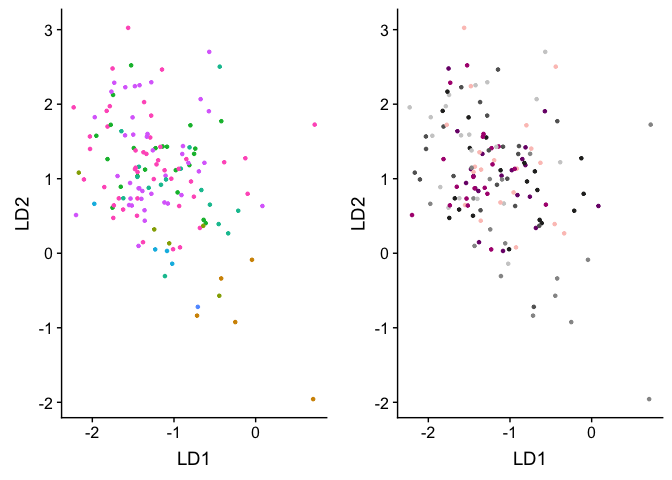
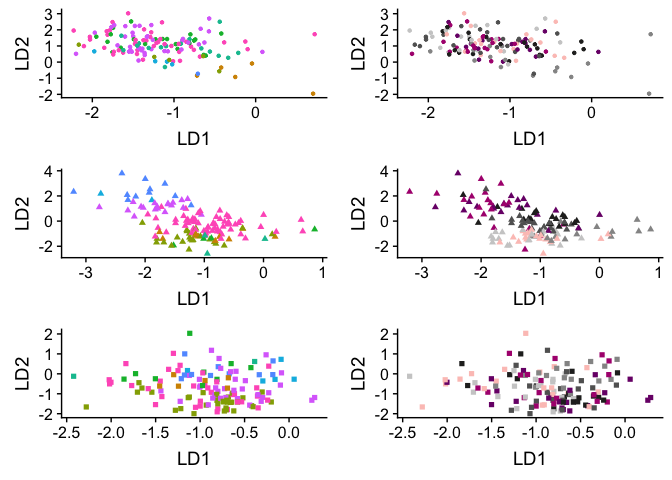
now with shape

diff --git a/analysis/04_LDA.md b/analysis/04_LDA.md
@@ -152,23 +152,25 @@ Linear discriminant analysis (LDA)
     a <- ggplot(LDA.hyp, aes(x = LD1, LD2, color = predictedstage)) + geom_point(shape = 20) + theme(legend.position = "none") + scale_color_manual(values = colorscharmaip) 
     b <- ggplot(LDA.hyp, aes(x = LD1, LD2, color = treatment)) + geom_point(shape = 20) + theme(legend.position = "none") + scale_color_manual(values = colorscharmaip)
 
-    plot_grid(a,b) 
-
-![](../figures/LDA/LDAplots-1.png)
-
     c <- ggplot(LDA.pit, aes(x = LD1, LD2, color = predictedstage)) + geom_point(shape = 17) + theme(legend.position = "none") + scale_color_manual(values = colorscharmaip)
     d <- ggplot(LDA.pit, aes(x = LD1, LD2, color = treatment)) + geom_point(shape = 17) + theme(legend.position = "none") + scale_color_manual(values = colorscharmaip)
-
-    plot_grid(a,b) 
-
-![](../figures/LDA/LDAplots-2.png)
 
     e <- ggplot(LDA.gon, aes(x = LD1, LD2, color = predictedstage)) + geom_point(shape = 15) + theme(legend.position = "none") + scale_color_manual(values = colorscharmaip)
     f <- ggplot(LDA.gon, aes(x = LD1, LD2, color = treatment)) + geom_point(shape = 15) + theme(legend.position = "none") + scale_color_manual(values = colorscharmaip)
 
     plot_grid(a,b,c,d,e,f, nrow = 3)
 
-![](../figures/LDA/LDAplots-3.png)
+![](../figures/LDA/LDAplots-1.png)
+
+    g <- ggplot(LDA.hyp, aes(x = LD1, LD2, shape = predictedstage, color = treatment)) + geom_point(shape = 20) + theme(legend.position = "none") + scale_color_manual(values = colorscharmaip) 
+
+    h <- ggplot(LDA.pit, aes(x = LD1, LD2, shape = predictedstage, color = treatment)) + geom_point(shape = 17) + theme(legend.position = "none") + scale_color_manual(values = colorscharmaip) 
+
+    i <- ggplot(LDA.gon, aes(x = LD1, LD2, shape = predictedstage, color = treatment)) + geom_point(shape = 15) + theme(legend.position = "none") + scale_color_manual(values = colorscharmaip)  
+
+    plot_grid(g,h,i, nrow = 1)
+
+![](../figures/LDA/LDAplots-2.png)
 
     df1 <- LDA.hyp %>% distinct(treatment, predictedstage) %>%
       group_by(treatment) %>%
